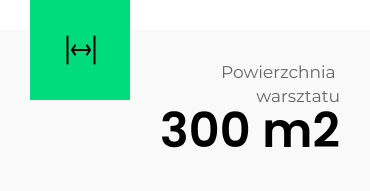
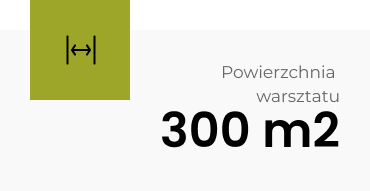
Change colors on subpages

Changed region(s): [[0.0595, 0.0, 0.3568, 0.5236]]

diff --git a/certificates.html b/certificates.html
@@ -17,7 +17,7 @@
     <div id="header"></div>
 
     <section class="certificates">
-        <h2 class="subpage-title">CERTYFIKATY</h2>
+        <h2 class="subpage-title">Certyfikaty</h2>
         <div class="gallery-sub-container">
             <div class="gallery-item"><img src="images/cert2017_small.jpg" alt="Gallery Image"></div>
             <div class="gallery-item"><img src="images/cert18001_small.jpg" alt="Gallery Image"></div>
@@ -28,7 +28,7 @@
             <div class="gallery-item"><img src="images/anticor01_small.jpg" alt="Gallery Image"></div>
             <div class="gallery-item"><img src="images/sika01_small.jpg" alt="Gallery Image"></div>
         </div>
-        <h2 class="subpage-title">LISTY REFERENCYJNE</h2>
+        <h2 class="subpage-title">Listy referencyjne</h2>
         <div class="gallery-sub-container">
             <div class="gallery-item"><img src="images/cert2017_small.jpg" alt="Gallery Image"></div>
             <div class="gallery-item"><img src="images/cert18001_small.jpg" alt="Gallery Image"></div>

diff --git a/css/contact.css b/css/contact.css
@@ -4,7 +4,7 @@
     margin-bottom: 150px;
     background-color: #fff;
     padding: 40px;
-    border-left: 6px solid #00225B;
+    border-left: 6px solid #9EA629;
 }
 
 .contact-container p {
@@ -17,7 +17,7 @@
 .contact-container p b {
     font-size: 24px;
     text-transform: uppercase;
-    color: #00225B;
+    color: black;
 }
 
 @keyframes equipmentCategoryIn {

diff --git a/contact.html b/contact.html
@@ -16,7 +16,7 @@
     <div id="header"></div>
 
     <section class="contact">
-        <h2 class="subpage-title">KONTAKT</h2>
+        <h2 class="subpage-title">Kontakt</h2>
         <div class="contact-container">
             <p><b>Przedsiębiorstwo Remontowo – Budowlane</b></p>
             <p><b>PROGRESS-BUD Bogdan Pliszka Sp. Jawna</b></p>

diff --git a/css/header-pages.css b/css/header-pages.css
@@ -1,5 +1,5 @@
 header {
-    background-color: #00225B;
+    background-color: #9EA629;
     color: white;
     padding: 1px 0;
 }
@@ -42,7 +42,7 @@ header {
         width: 100%;
         height: 100%;
         display: none;
-        background: #00225B;
+        background: #9EA629;
         padding-top: 50px;
         z-index: 2;
     }

diff --git a/css/equipment.css b/css/equipment.css
@@ -5,7 +5,7 @@
 .subpage-title {
     font-size: 64px;
     font-weight: 600;
-    color: #00225B;
+    color: black;
     margin: 60px 140px;
 }
 
@@ -33,7 +33,7 @@
 }
 
 .highlighted {
-    background-color: #EBF2FF;
+    background-color: #F9F9F9;
 }
 
 @keyframes equipmentTitleIn {

diff --git a/css/about.css b/css/about.css
@@ -82,7 +82,7 @@
     font-weight: 600;
     line-height: 40px;
     margin-bottom: 30px;
-    color: #00225B;
+    color: black;
     font-family: var(--font-secondary);
 }
 

diff --git a/css/projects.css b/css/projects.css
@@ -14,7 +14,7 @@
 .project-year h2 {
     font-size: 24px;
     font-weight: 600;
-    color: #00225B;
+    color: black;
     margin-bottom: 15px;
 }
 
